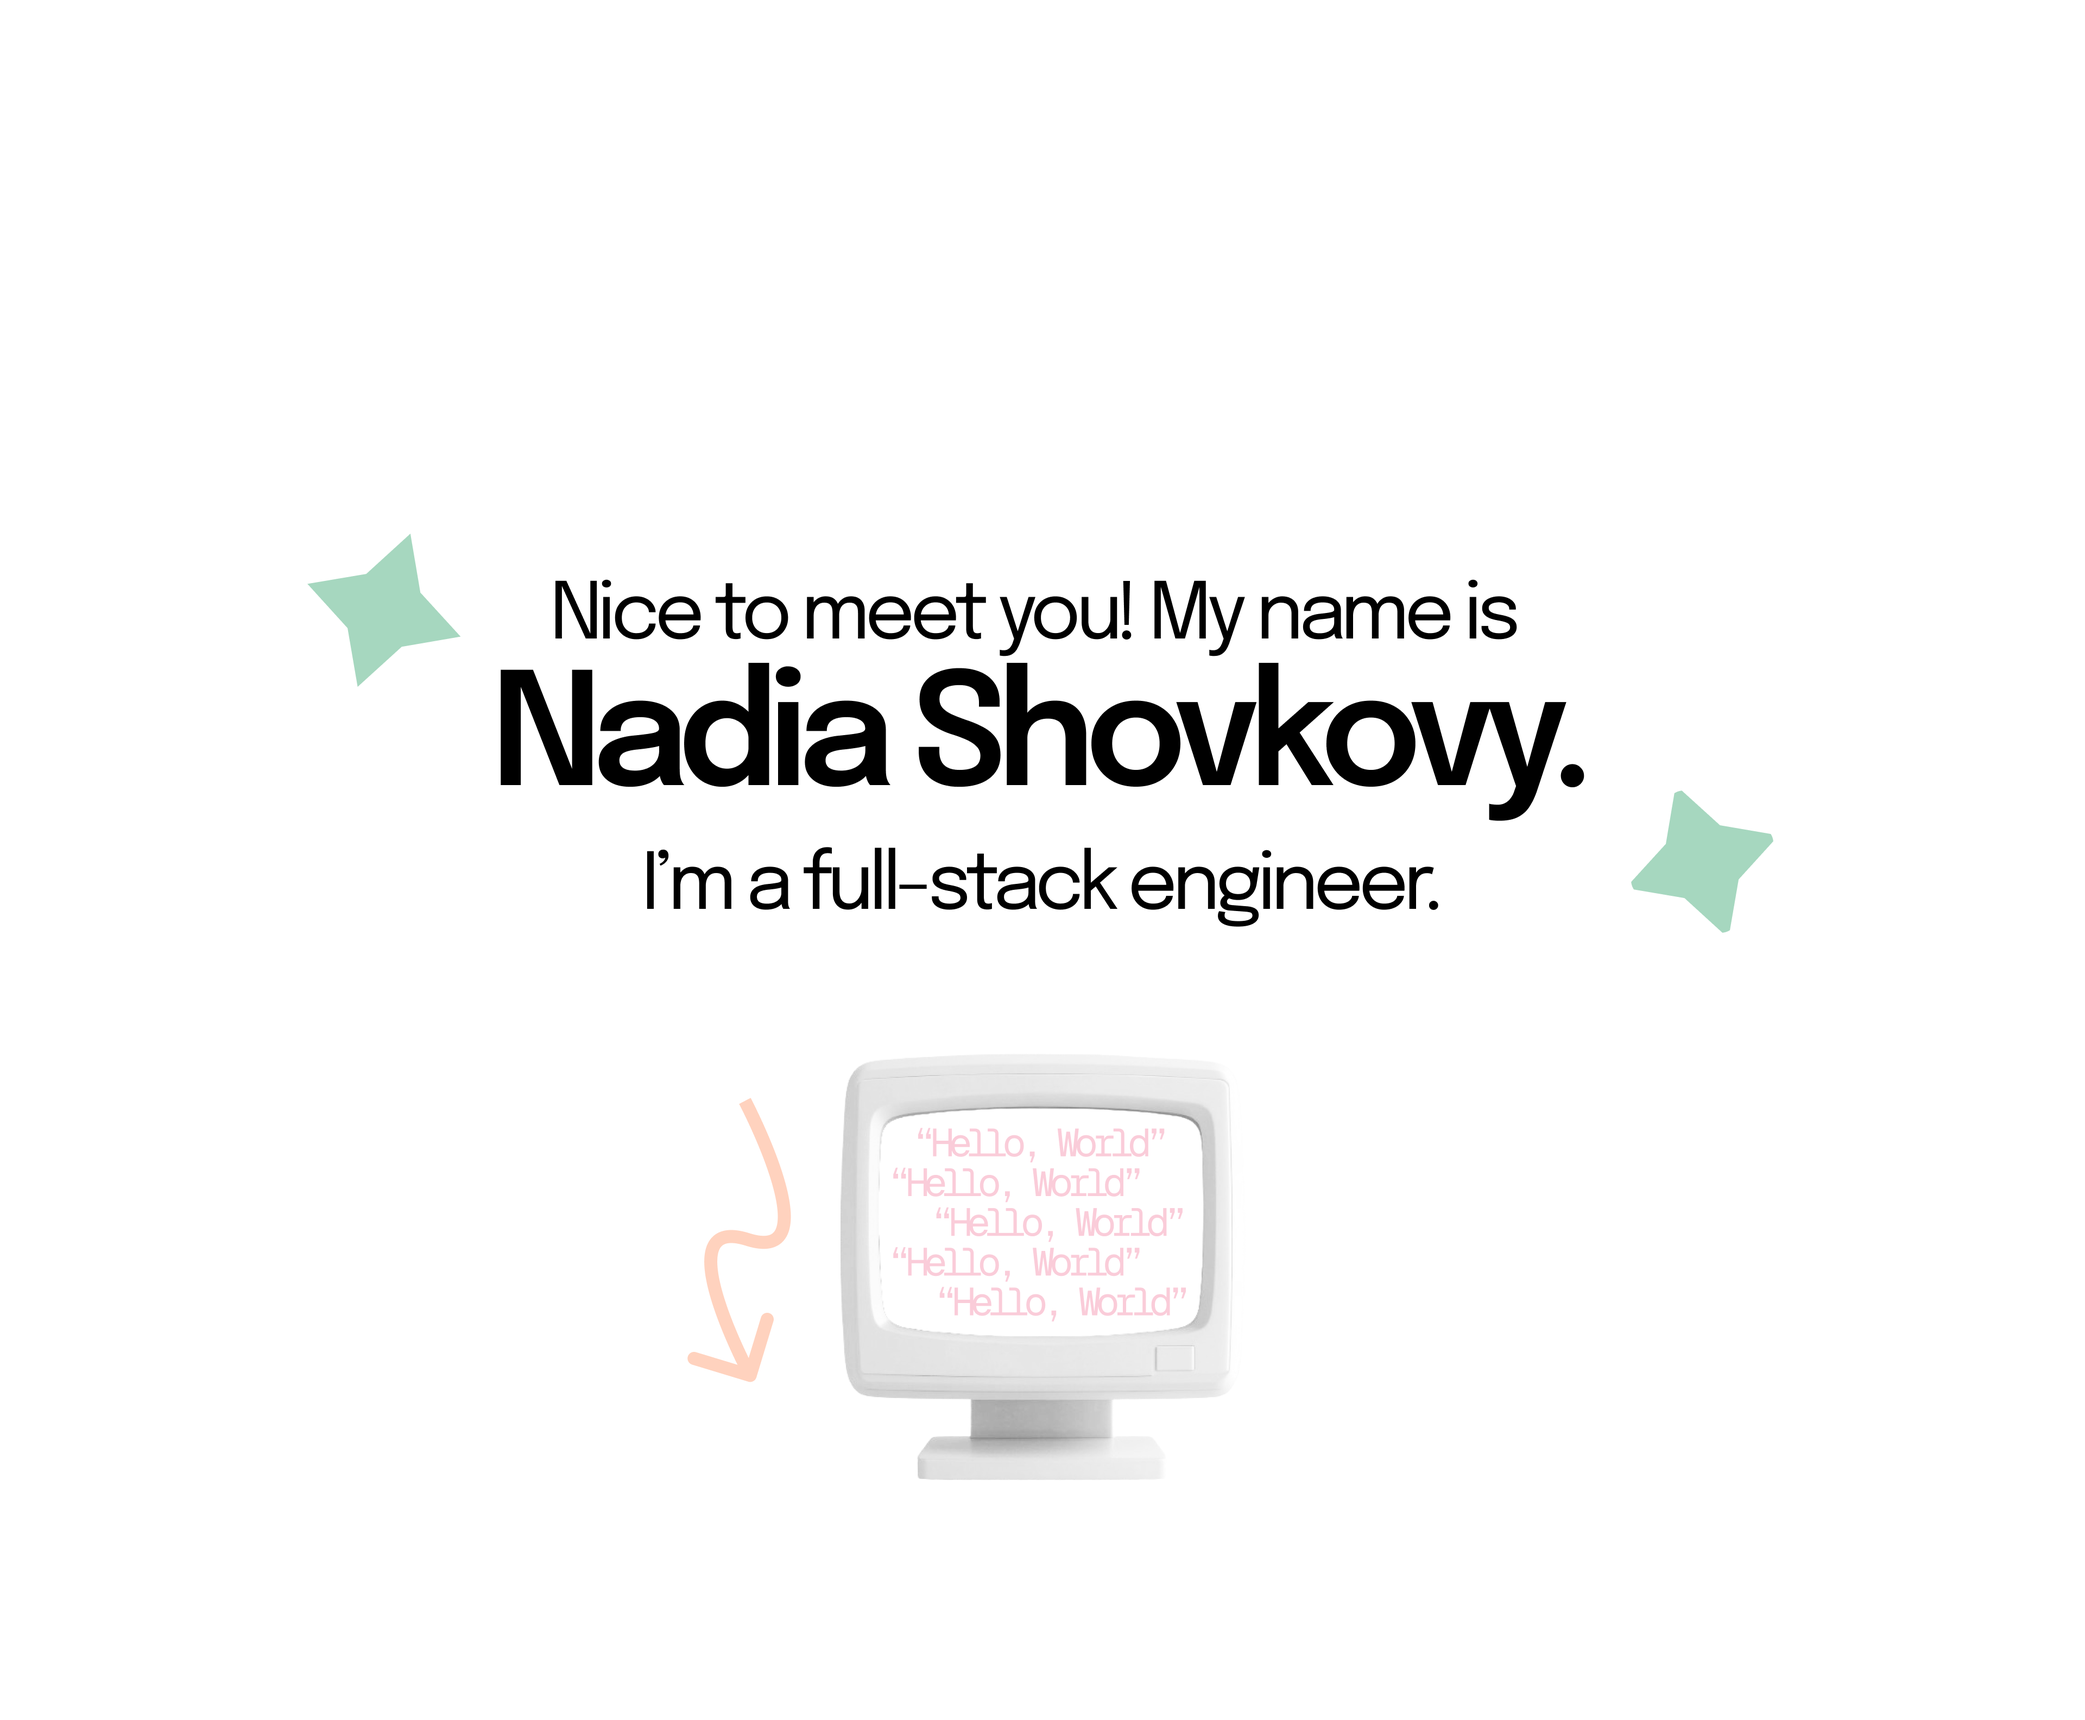
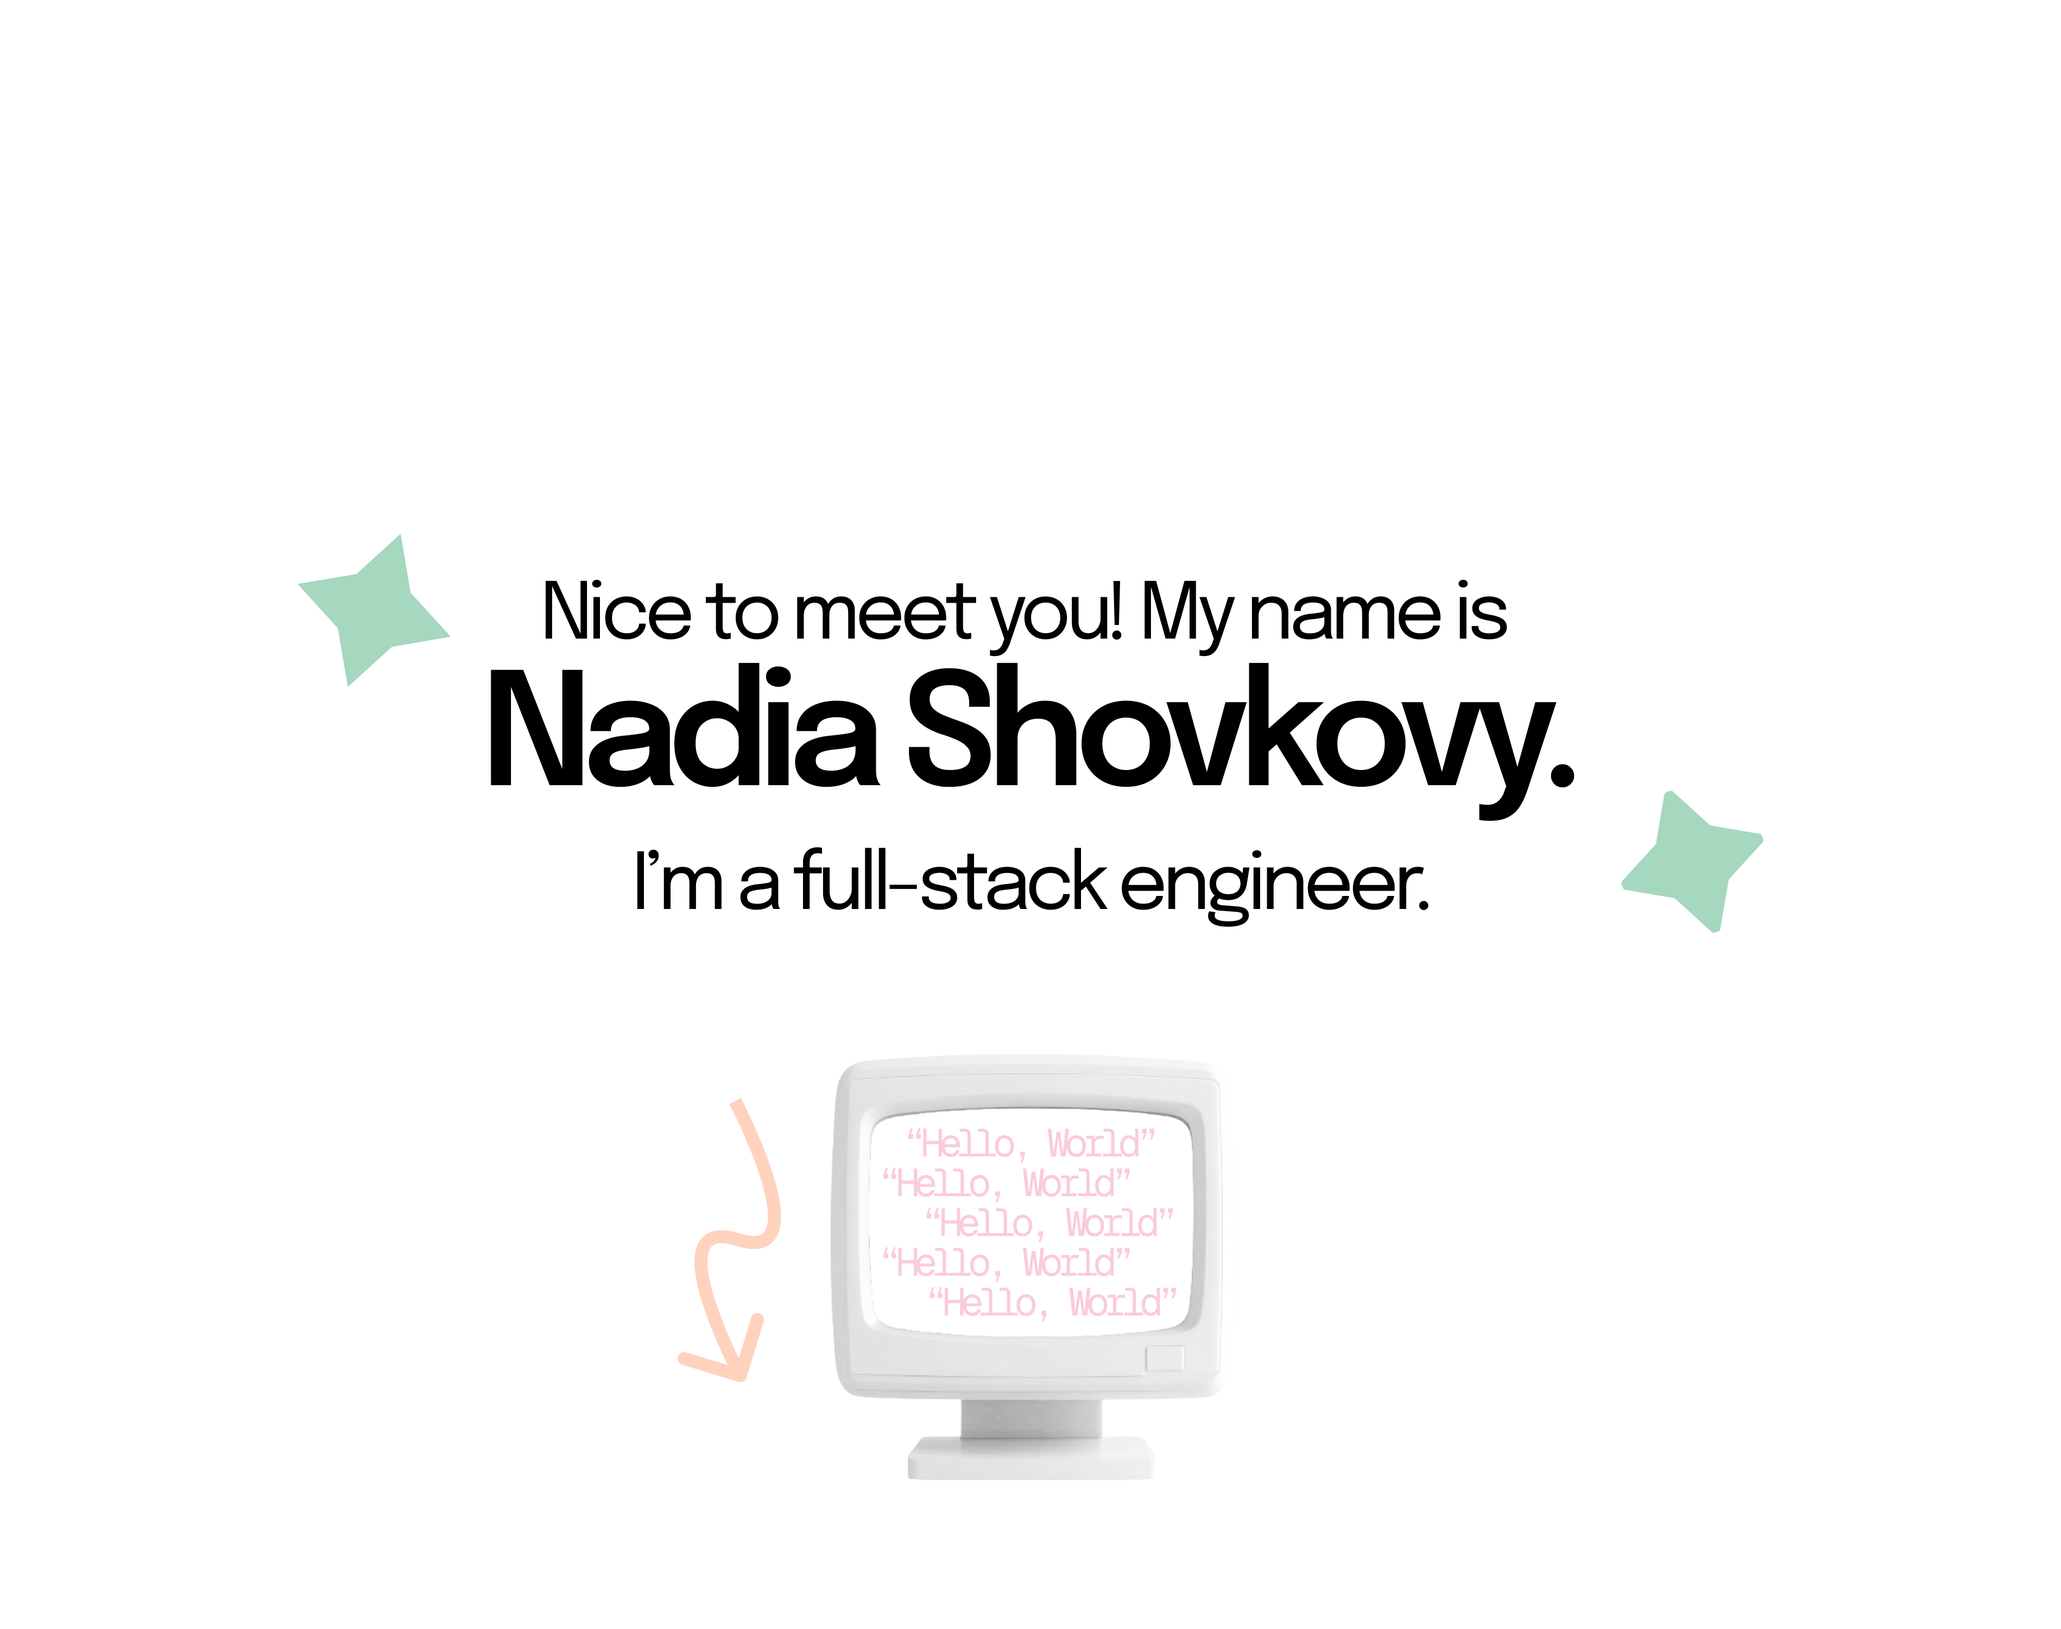
made some fixes for phone display

Changed region(s): [[0.1243, 0.31, 0.8704, 0.589], [0.4041, 0.62, 0.5906, 0.93], [0.3109, 0.651, 0.4041, 0.868]]

diff --git a/src/styles.css b/src/styles.css
@@ -24,7 +24,7 @@ body {
   top: 5%; /* Move to the vertical center */
   left: 50%; /* Move to the horizontal center */
   transform: translate(-50%, -50%);
-  width: 60%;
+  width: 60%; 
   z-index: 3; 
 }
 
@@ -50,7 +50,7 @@ nav ul {
   font-size: clamp(10px, 2vw, 18px);
   list-style: none;
   display: flex;
-  gap: 40px;
+  gap: clamp(20px, 1.1em, 40px);
 }
 nav a {
   text-decoration: none;
@@ -98,8 +98,8 @@ nav a {
 .welcome-img {
     position: relative;
     left: 50%; 
-    transform: translate(-50%, -170%);
-    width: 60%; 
+    transform: translate(-50%, -160%);
+    width: 70%; 
     z-index: 2;
 }
 
@@ -128,7 +128,7 @@ nav a {
   left: 50%; /* Adjust horizontal position */
   transform: translate(-50%, -50%); /* Center the image */
   width: 75%; /* Adjust size as needed */
-  margin-bottom: 5%;
+  margin-bottom: 10%;
   z-index: 2;
 }
 
@@ -136,7 +136,8 @@ nav a {
   position: relative;
   left: 50%; /* Adjust horizontal position */
   transform: translate(-50%, -50%); /* Center the image */
-  width: 75%; /* Adjust size as needed */
+  width: 75%; 
+  margin-top: 10%;
   z-index: 2;
 }
 
@@ -160,11 +161,22 @@ nav a {
   background-color: #fbfbf4;
   border-radius: 40px;
   margin-bottom: 2%;
+  box-shadow: 0 4px 10px rgba(0, 0, 0, 0.1);
 }
 
 .work-experience p {
   font-size: clamp(7px, 2vw, 14px);
   color: #000000;
+}
+
+.work-link {
+  color: #FFC6AD;
+  text-decoration: none;
+  font-weight: bold; 
+}
+
+.work-link:hover {
+  color: #fb8e5f; 
 }
 
 .resume-btn {
@@ -199,7 +211,7 @@ nav a {
   text-align: center;
   padding: clamp(5px, 2vw, 30px); 
   width: 20%;
-  height: clamp(200px, 10vh, 300px); 
+  height: clamp(150px, 2vh, 300px); 
   border-radius: 15px;
   position: relative;
   cursor: pointer;
@@ -378,7 +390,7 @@ nav a {
     background-color: #fbfbf4;
     border-radius: 25px;
     padding: 30px;
-    width: 40%;
+    width: 38%;
     box-shadow: 0 4px 10px rgba(0, 0, 0, 0.1);
     text-align: center;
   }
@@ -427,6 +439,18 @@ nav a {
     gap: 2%;
     justify-content: space-between; 
     position: relative;
+  }
+
+  @media screen and (max-width: 850px) {
+    .wip-cards-container {
+      flex-direction: column; /* Stack items vertically */
+      align-items: center; /* Center the cards */
+      gap: 40px; /* Add spacing between stacked cards */
+    }
+  
+    .wip-card {
+      width: 90%; /* Make the cards take up most of the screen width */
+    }
   }
 
   
@@ -570,11 +594,11 @@ input, textarea {
 
 .fake-btn {
     font-family: "Poppins", sans-serif;
-    font-size: clamp(3px, 2vw, 18px);
+    font-size: clamp(2px, 2vw, 16px);
     background: #DCE8FB;
-    padding: 5px clamp(10px, 1vw, 30px);
+    padding: 5px clamp(15px, 1vw, 30px);
     margin-bottom: 5%;
-    border: 1.5px solid #000000;
+    border: #00000000;
     border-radius: 25px;
 }
 

diff --git a/src/App.js b/src/App.js
@@ -86,7 +86,7 @@ function App() {
               </div>
           </section>
 
-          <button class="resume-btn" onClick={() => window.open("https://docs.google.com/document/d/186M1_Q00dXBVX05e31C9_-zDlmeups3Pqb--8ydOx4Y/edit?usp=sharing", "_blank")}> My Complete Resume</button>
+          <button class="resume-btn enlarge-text-on-hover" onClick={() => window.open("https://docs.google.com/document/d/186M1_Q00dXBVX05e31C9_-zDlmeups3Pqb--8ydOx4Y/edit?usp=sharing", "_blank")}> My Complete Resume</button>
         </section>
 
         <section id="skills-content" className='skills-content fade-in'> 
@@ -163,7 +163,7 @@ function App() {
           <div className="project-links">
             <a href="https://eco-iq.netlify.app/" target ="blank" className="project-link">
               <img src="images/icon.png" alt="icon" className="link-icon" />
-              Live Demo</a>
+              Demo</a>
             <a href="https://youtu.be/gbt07IEEAIY?feature=shared" target ="blank" className="project-link">
               <img src="images/icon.png" alt="icon" className="link-icon" />
               Video</a>
@@ -319,7 +319,7 @@ function App() {
               <input type="email" placeholder="Email"></input>
               <p>Message*</p>
               <textarea placeholder="Message" rows="6" cols="20"></textarea>
-              <button class="real-btn3 enlarge-on-hover">Send Message</button>
+              <button class="real-btn3 enlarge-text-on-hover">Send Message</button>
           </section>
           <img src ="images/Illustration.png"  alt = "illustration" className = "footer-img fade-in"/>
       </section>
